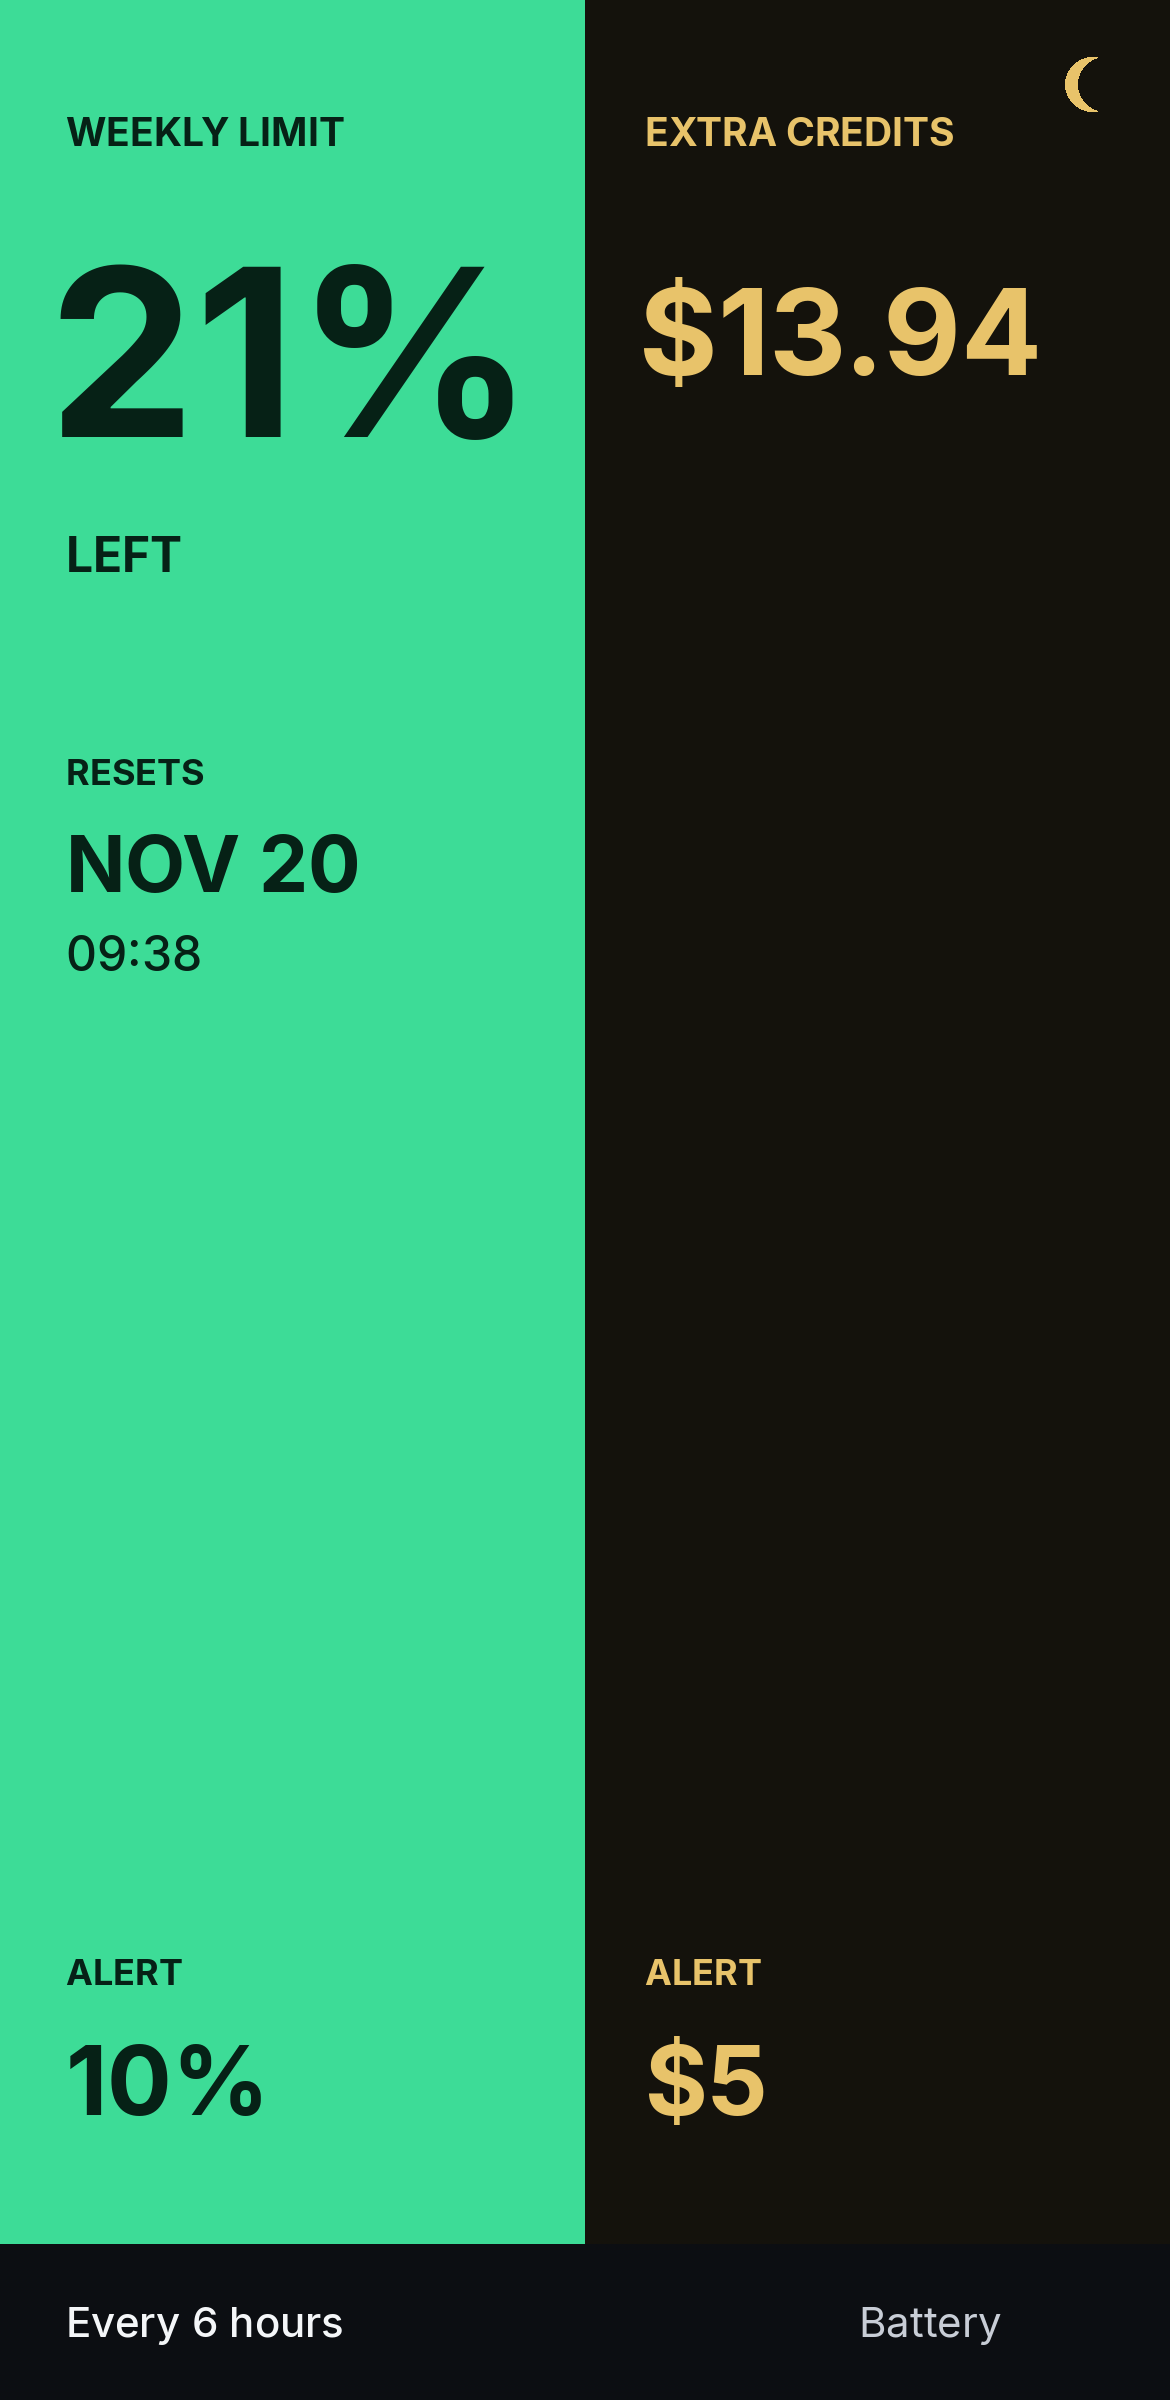
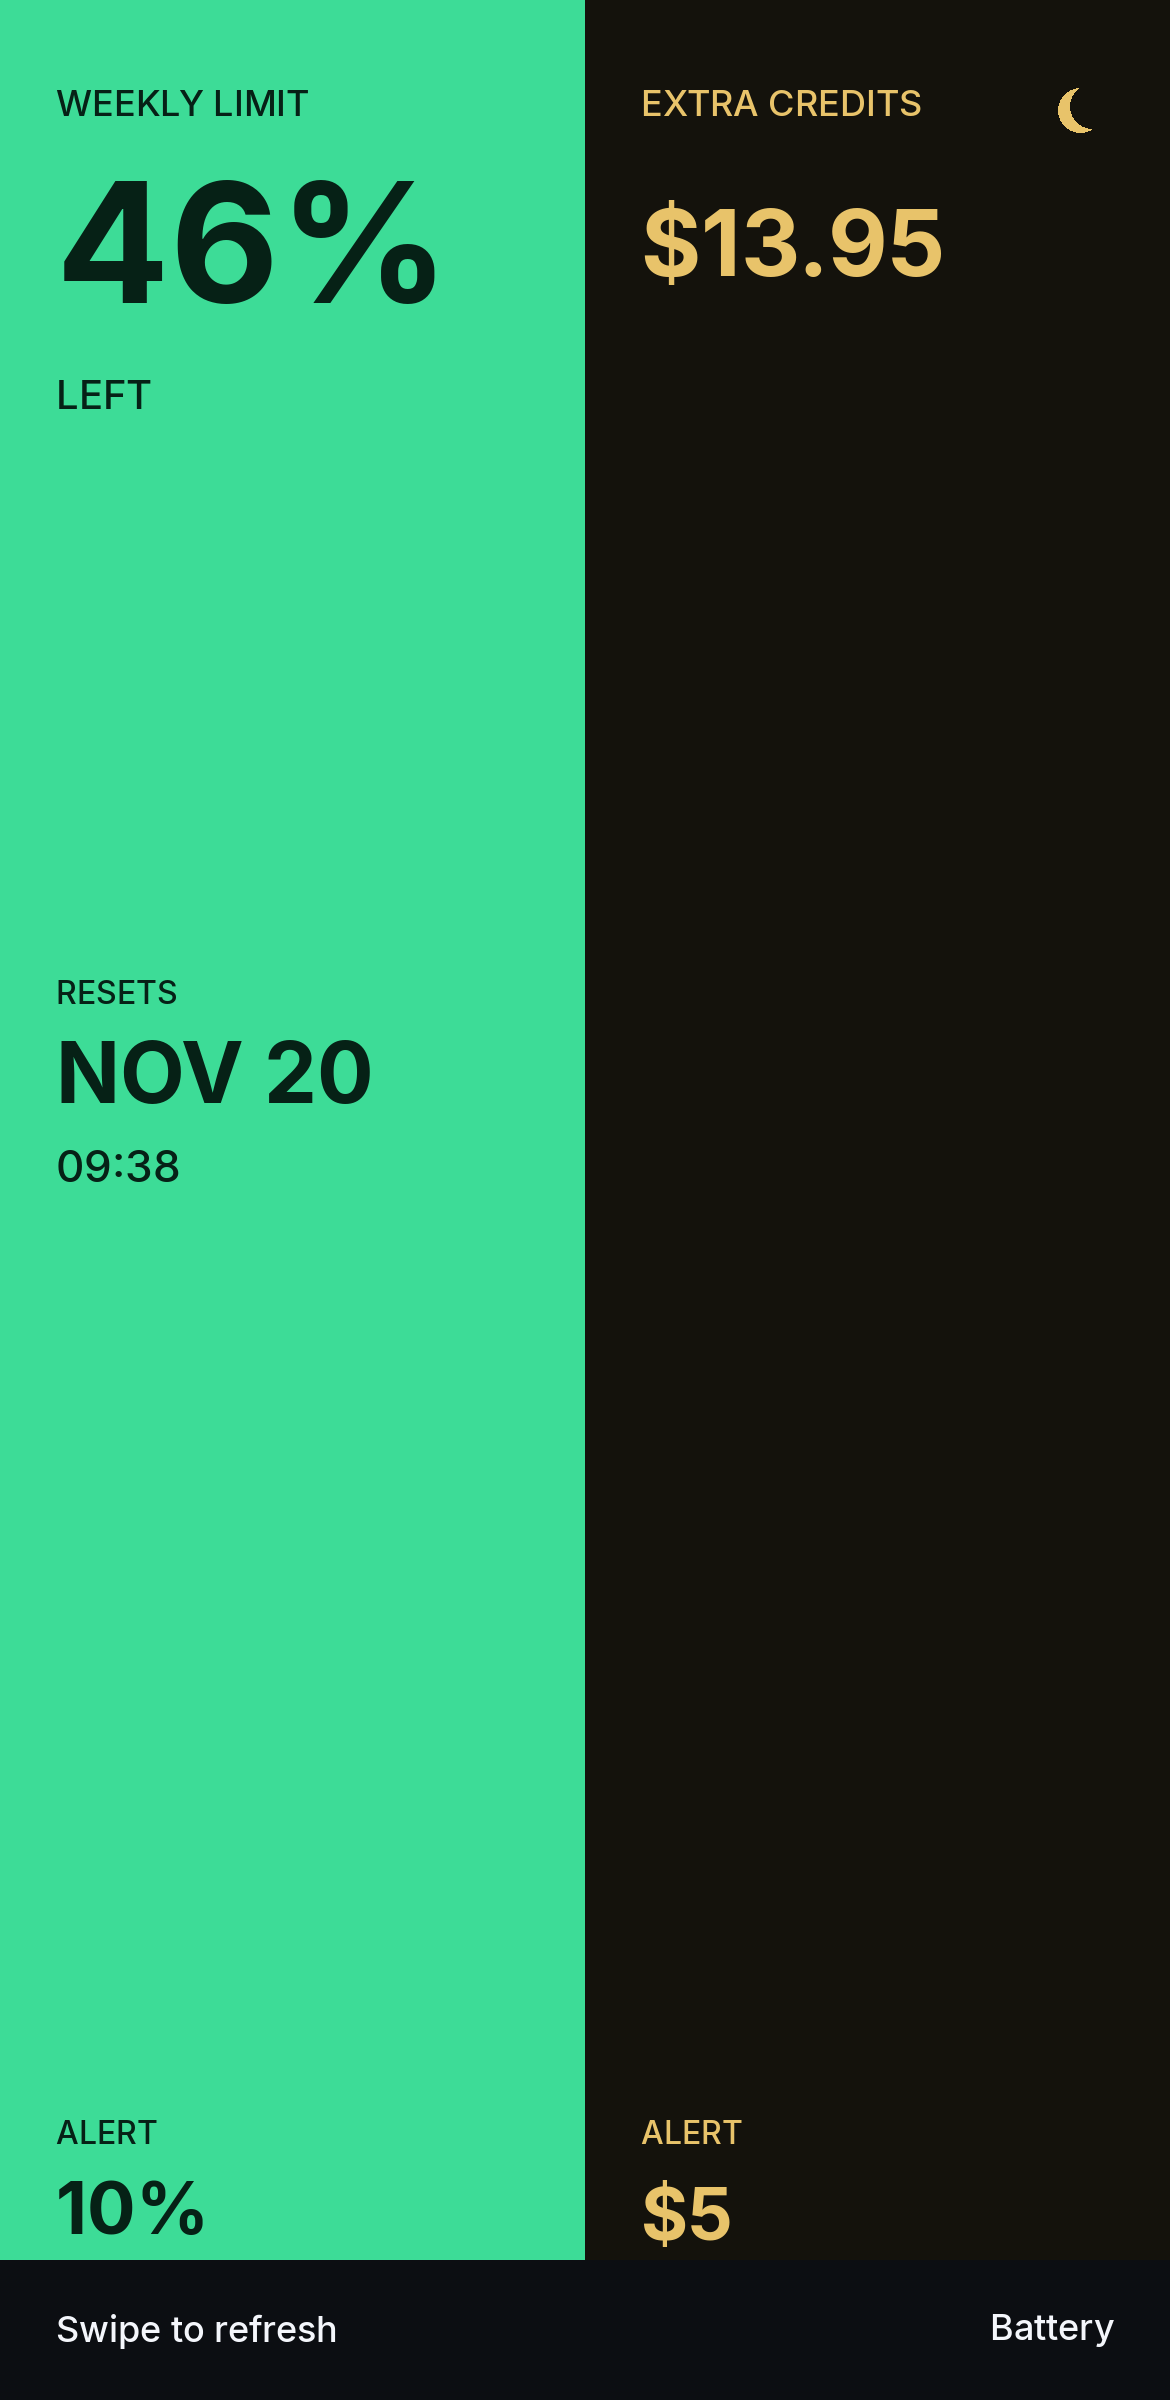
Document the ring widgets and refresh the project page.
The README and the site still described the old blue bar. The pictures and the copy now match the ring, the reset date, and the extra credits.

diff --git a/docs/index.html b/docs/index.html
@@ -5,10 +5,10 @@
   <meta name="google-site-verification" content="ujS9WcdJbHAApiXJdntEZgVvt6IU7_kdXQFSchbQmpY" />
   <meta name="viewport" content="width=device-width, initial-scale=1" />
   <title>Cursor Limits — Android home screen widget</title>
-  <meta name="description" content="Cursor Limits is an Android app. Its home screen widgets show your plan, weekly limit, reset time, and extra credits." />
+  <meta name="description" content="Cursor Limits is an Android app. Its home screen widgets show the weekly limit as a ring, the reset date, and extra credits." />
   <link rel="canonical" href="https://w1neskin.github.io/cursor-limits/" />
   <meta property="og:title" content="Cursor Limits — Android home screen widget" />
-  <meta property="og:description" content="See your Cursor plan, weekly limit, reset time, and extra credits on the Android home screen." />
+  <meta property="og:description" content="See your weekly Cursor limit as a ring, the reset date, and extra credits on the Android home screen." />
   <meta property="og:image" content="https://w1neskin.github.io/cursor-limits/images/home-dark.png" />
   <meta property="og:url" content="https://w1neskin.github.io/cursor-limits/" />
   <meta property="og:type" content="website" />
@@ -25,7 +25,7 @@
     "offers": { "@type": "Offer", "price": "0", "priceCurrency": "USD" },
     "downloadUrl": "https://github.com/W1neSkin/cursor-limits/releases/download/v2.7.1/cursor-limit.apk",
     "softwareVersion": "2.7.1",
-    "description": "Home screen widgets for a Cursor plan: weekly limit, reset time, and extra credits.",
+    "description": "Home screen widgets for a Cursor plan: a ring for the weekly limit, the reset date, and extra credits.",
     "url": "https://w1neskin.github.io/cursor-limits/"
   }
   </script>
@@ -152,12 +152,12 @@
       <div>
         <p class="eyebrow">Android 8 or newer</p>
         <h1>Your Cursor limit on the home screen</h1>
-        <p class="lede">Cursor Limits shows your plan, how much of the weekly limit is left, when it resets, and your extra credits.</p>
+        <p class="lede">A ring shows how much of the weekly limit is left. The reset date sits beside it. Extra credits sit on the right.</p>
         <div class="actions">
           <a class="btn primary" href="https://github.com/W1neSkin/cursor-limits/releases/download/v2.7.1/cursor-limit.apk">Download APK · 2.7.1</a>
           <a class="btn ghost" href="https://github.com/W1neSkin/cursor-limits">View on GitHub</a>
         </div>
-        <p class="fine">About 7 MB. If the app is already installed, install this file over it.</p>
+        <p class="fine">About 8 MB. Version 2.7.1. If the app is already installed, install this file over it.</p>
       </div>
       <div class="frame">
         <img src="images/home-dark.png" alt="Cursor Limits widgets on a dark background: a full card, a wide row, and small sizes" />
@@ -166,31 +166,23 @@
 
     <section>
       <h2>What you see</h2>
-      <p class="sub">The pictures use example numbers: 46% left, reset on Fri, Nov 20 at 09:38, and $13.95 in extra credits. Your phone shows your own account.</p>
+      <p class="sub">The pictures use example numbers: 46% left, reset on Nov 20 at 09:38, and $13.95 in extra credits. Your phone shows your own account.</p>
       <table>
         <thead>
-          <tr><th>On the card</th><th>What it is</th></tr>
+          <tr><th>On the widget</th><th>What it is</th></tr>
         </thead>
         <tbody>
           <tr>
-            <td>Cursor · Super</td>
-            <td>Your plan name. Super is only an example.</td>
-          </tr>
-          <tr>
             <td><span class="swatch green"></span>46% left</td>
-            <td>How much of this week’s limit is still left.</td>
+            <td>How much of this week’s limit is still left. The ring is that share.</td>
           </tr>
           <tr>
-            <td><span class="swatch blue"></span>Used 54.2%</td>
-            <td>How much of this week’s limit is already used. The blue bar shows the same thing.</td>
+            <td>Resets · Nov 20, 09:38</td>
+            <td>The day and time when the weekly limit starts over, in your local time. This date is only for the weekly limit.</td>
           </tr>
           <tr>
-            <td>Reset</td>
-            <td>The day and time when the weekly limit starts over, in your local time.</td>
-          </tr>
-          <tr>
-            <td><span class="swatch gold"></span>Extra credits</td>
-            <td>Extra credits in dollars, separate from the weekly limit.</td>
+            <td><span class="swatch gold"></span>Extra · $13.95</td>
+            <td>Extra credits in dollars. They do not reset on that day.</td>
           </tr>
         </tbody>
       </table>
@@ -202,15 +194,15 @@
       <div class="grid">
         <article class="card">
           <h3>Limits Card</h3>
-          <p>The full card: plan, percent left, blue bar, reset time, and extra credits. You can drag it wider, up to the full width of the screen. On a screen with five columns, that is 5 cells wide and 2 cells tall.</p>
+          <p>The ring, the reset date beside it, and extra credits on the right. You can drag it wider, up to the full width of the screen. On a screen with five columns, that is 5 cells wide and 2 cells tall.</p>
         </article>
         <article class="card">
           <h3>Limits Wide</h3>
-          <p>One row: percent left, extra credits, and the blue bar under them. It also drags out to the full width of the screen, one cell tall.</p>
+          <p>One row: a small ring, the percent left, the reset day, and the extra credits. It also drags out to the full width of the screen, one cell tall.</p>
         </article>
         <article class="card">
           <h3>Limits</h3>
-          <p>The small widget. Drag the edge to change the size. 1×1 shows the green number only. 2×1 shows the green and gold numbers side by side. 1×2 stacks them. Green is the percent left. Gold is the extra credits.</p>
+          <p>The small widget. Drag the edge to change the size. 1×1 is the ring. 2×1 puts the ring and the gold amount side by side. 1×2 stacks them. Green is the percent left. Gold is the extra credits.</p>
         </article>
       </div>
       <p class="sub" style="margin-top: 18px;">The ↻ button updates the numbers right away. The smallest 1×1 widget has no button. Tap it to open the app.</p>
@@ -226,7 +218,7 @@
           <div class="card">
             <ul>
               <li>The screen is split. Mint on the left is the weekly limit and the day it resets. The dark half is extra credits. That date does not reset the credits.</li>
-              <li>Before you sign in, the bottom left says Sign in. Use Google, GitHub, or email. After that, tap the big percent to refresh now.</li>
+              <li>Before you sign in, the bottom left says Sign in. Use Google, GitHub, or email. After that, the bottom left shows the refresh timer. Swipe down to refresh now.</li>
               <li>The moon or sun in the corner switches dark and light, including every widget on the home screen.</li>
               <li>Tap an alert number. Minus stays on the left and plus on the right, and the digits do not move. One tap steps by 1. Holding speeds up. Percent runs from 1 to 100. Dollars run from $1 up to the extra credits you have now.</li>
               <li>The first change turns that alert on. It is sent once when the number falls to the line, and it can be sent again after the number goes back up.</li>

diff --git a/README.md b/README.md
@@ -2,11 +2,11 @@
 
 Project page, with the APK download: [w1neskin.github.io/cursor-limits](https://w1neskin.github.io/cursor-limits/)
 
-Android home-screen widgets for a Cursor subscription. The card shows the plan name, how much of the weekly limit is left, when it resets, and the extra credits in dollars.
+Android home-screen widgets for a Cursor subscription. A ring shows how much of the weekly limit is left. The reset date sits beside the ring. Extra credits, in dollars, sit on the right.
 
 The app is built for a phone, including a Samsung Galaxy in a five-column grid. It runs on Android 8 and newer.
 
-The pictures below are interface previews with sample numbers (`46%` left, `$13.95`). A signed-in phone shows the account’s own figures.
+The pictures below are interface previews with sample numbers (`46%` left, reset on Nov 20 at 09:38, `$13.95` extra). A signed-in phone shows the account’s own figures.
 
 ![Dark widgets: card, wide row, and the small Limits sizes](docs/images/home-dark.png)
 
@@ -16,13 +16,11 @@ The pictures below are interface previews with sample numbers (`46%` left, `$13.
 
 | Line | Meaning |
 | --- | --- |
-| Plan | The Cursor plan name, for example Super. |
-| Percent left | Share of the current weekly limit that is still unused. |
-| Used | Share already spent, to one decimal place. |
-| Reset | Local date and time when the weekly cycle ends. |
-| Extra credits | Extra credits in dollars, separate from the weekly limit. |
+| Percent left | Share of the current weekly limit that is still unused. The ring is that share. |
+| Reset | Local day and time when the weekly cycle ends. It belongs to the weekly limit only. |
+| Extra | Extra credits in dollars. They do not reset on that day. |
 
-Green is the remaining weekly percent. Gold is the extra-credit balance. The blue bar is how much of the week is already used.
+Green is the remaining weekly percent. Gold is the extra-credit balance.
 
 ## Widgets
 
@@ -30,11 +28,11 @@ Long-press the home screen, open Widgets, and pick one of three:
 
 ### Limits Card
 
-The full card: plan, percent left, blue bar, reset time, and extra credits. Drag it wider to fill the row. On a five-column screen that is 5 cells wide and 2 cells tall.
+The ring, the reset date beside it, and extra credits on the right. Drag it wider to fill the row. On a five-column screen that is 5 cells wide and 2 cells tall.
 
 ### Limits Wide
 
-One row: percent left, extra credits, and the usage bar underneath. It stretches across the screen the same way the card does.
+One row: a small ring, the percent left, the reset day, and the extra credits. It stretches across the screen the same way the card does, one cell tall.
 
 ### Limits
 
@@ -42,14 +40,14 @@ One small widget that you resize by dragging an edge.
 
 | Size | What it shows |
 | --- | --- |
-| 1×1 | The remaining percent only. Tap it to open the app. |
-| 2×1 | Remaining percent and extra credits, side by side, plus refresh. |
-| 1×2 | The same two numbers stacked, plus refresh. |
-| 2×2 | The same two numbers, larger, if you drag both the width and the height. |
+| 1×1 | The ring only, with a small refresh arrow in the corner. |
+| 2×1 | The ring and extra credits side by side, plus refresh. |
+| 1×2 | The ring, then extra credits, then refresh, stacked. |
+| 2×2 | The same stack, larger, if you drag both the width and the height. |
 
 Green is the percent left. Gold is the extra credits. The 1×1 size shows only the green number.
 
-The refresh mark updates immediately. On the 1×1 size there is no room for it, so a tap opens the app instead.
+The refresh mark updates immediately. A tap anywhere else on the widget opens the app.
 
 ## The app
 
@@ -108,7 +106,7 @@ keytool -genkeypair -v \
 | --- | --- |
 | `app/` | Android app, widgets, sign-in, refresh schedule, alerts. |
 | `core/` | Parsing and the text shown on the card. No Android dependencies. |
-| `core/src/test/` | Unit tests for the period, the credit balance, and the card copy. |
+| `core/src/test/` | Unit tests for the period, the credit balance, the card copy, and the widget sizes. |
 | `dist/cursor-limit.apk` | Latest signed debug build for sideloading. |
 
 ## Privacy
